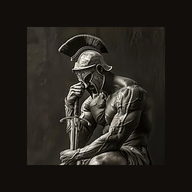
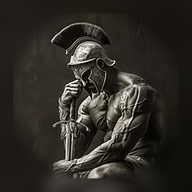
Écran de présentation, icône plein cadre, bâtiments plus hauts avec ombres, sol plus net, éclairage des personnages
Claude-Session: https://claude.ai/code/session_0193LcvTfVg5nRpzyzWPW21n

Changed region(s): [[0.2188, 0.0625, 0.8438, 1.0], [0.0625, 0.25, 0.1562, 0.6875], [0.1875, 0.125, 0.2188, 0.1562]]

diff --git a/index.html b/index.html
@@ -401,7 +401,24 @@ body.desk .fire,body.desk .pist{display:none}
   .hint{top:calc(var(--it) + 218px);bottom:auto;max-width:min(34vw,280px)}
   .warn{top:calc(var(--it) + 160px);right:calc(var(--ir) + 10px);left:auto}
 }
+.splash{position:fixed;inset:0;z-index:999;background:#0b0806;display:flex;align-items:flex-end;justify-content:center;overflow:hidden;cursor:pointer;transition:opacity .6s ease}
+.splash.out{opacity:0;pointer-events:none}
+.splash img{position:absolute;inset:0;width:100%;height:100%;object-fit:cover;object-position:50% 22%;filter:contrast(1.08) saturate(1.05);animation:spz 6s ease-out forwards}
+@keyframes spz{from{transform:scale(1.12)}to{transform:scale(1)}}
+.splash::after{content:'';position:absolute;inset:0;background:linear-gradient(180deg,rgba(11,8,6,.2) 0,rgba(11,8,6,0) 35%,rgba(11,8,6,.55) 62%,rgba(11,8,6,.96) 100%)}
+.splash .sp-in{position:relative;z-index:1;text-align:center;padding:0 20px calc(env(safe-area-inset-bottom,0px) + 44px);color:var(--bone);width:100%;max-width:560px}
+.splash h1{font-family:var(--f-stencil);font-weight:400;font-size:clamp(46px,15vw,92px);line-height:.92;margin:0;letter-spacing:.03em;text-shadow:0 4px 0 rgba(0,0,0,.5)}
+.splash h1 span{color:var(--ember)}
+.splash p{margin:10px 0 0;font-size:clamp(12px,3.4vw,18px);letter-spacing:.08em;white-space:nowrap;text-transform:uppercase;color:#e8dcc4}
+.splash .sp-bar{height:4px;background:rgba(255,255,255,.14);border-radius:2px;margin:22px auto 0;max-width:280px;overflow:hidden}
+.splash .sp-bar i{display:block;height:100%;width:0;background:linear-gradient(90deg,var(--ember),var(--flare));animation:spb 2.4s ease-out forwards}
+@keyframes spb{to{width:100%}}
+.splash small{display:block;margin-top:14px;font-size:13px;letter-spacing:.14em;text-transform:uppercase;color:rgba(243,233,212,.7);opacity:0;animation:spt .4s 2.3s forwards}
+@keyframes spt{to{opacity:1}}
+@media (prefers-reduced-motion:reduce){.splash img{animation:none}}
 </style>
[1 lines of base64/hex data omitted]
+<script>(function(){var sp=document.getElementById('splash');if(!sp)return;var done=false;function hide(){if(done)return;done=true;sp.classList.add('out');setTimeout(function(){sp.remove()},650)}sp.addEventListener('click',hide);if(document.readyState==='complete')setTimeout(hide,2800);else window.addEventListener('load',function(){setTimeout(hide,2800)});setTimeout(hide,12000)})();</script>
 
 </head>
 <body>
@@ -619,7 +636,7 @@ const $=s=>document.querySelector(s);
 const cv=$('#game'),ctx=cv.getContext('2d');
 const mini=$('#mini'),mctx=mini.getContext('2d');
 const bigcv=$('#bigcv'),bctx=bigcv.getContext('2d');
-const TAU=Math.PI*2,WS=3600,GS=.5,CELL=150,COLS=Math.ceil(WS/CELL);
+const TAU=Math.PI*2,WS=3600,CELL=150,COLS=Math.ceil(WS/CELL);
 const rand=(a,b)=>a+Math.random()*(b-a);
 const clamp=(v,a,b)=>v<a?a:v>b?b:v;
 const lerp=(a,b,t)=>a+(b-a)*t;
@@ -895,7 +912,8 @@ const T=14,DW=60;
 function wall(x,y,w,h,st){const c={t:'r',x,y,w,h,k:'wall',st};walls.push(c);solids.push(c);return c}
 function hWall(b,x,y,len,fs,ny){const g=fs.map(f=>x+f*len).sort((a,c)=>a-c);let cur=x;for(const c of g){if(c-DW/2>cur)wall(cur,y,c-DW/2-cur,T,b.st);cur=c+DW/2;b.doors.push({x:c,y:y+T/2,nx:0,ny})}if(x+len>cur)wall(cur,y,x+len-cur,T,b.st)}
 function vWall(b,x,y,len,fs,nx){const g=fs.map(f=>y+f*len).sort((a,c)=>a-c);let cur=y;for(const c of g){if(c-DW/2>cur)wall(x,cur,T,c-DW/2-cur,b.st);cur=c+DW/2;b.doors.push({x:x+T/2,y:c,nx,ny:0})}if(y+len>cur)wall(x,cur,T,y+len-cur,b.st)}
-function bld(x,y,w,h,st,doors,opt){opt=opt||{};const b={x,y,w,h,st,doors:[],props:[],al:1,mil:!!opt.mil,lh:!!opt.lh,label:opt.label||'',tank:SR()<.6,tx:sr(.25,.75),ty:sr(.25,.75)};const by={n:[],s:[],w:[],e:[]};for(const d of doors)by[d[0]].push(d[1]);hWall(b,x,y,w,by.n,-1);hWall(b,x,y+h-T,w,by.s,1);vWall(b,x,y+T,h-2*T,by.w,-1);vWall(b,x+w-T,y+T,h-2*T,by.e,1);if(opt.inner)for(const r of opt.inner)wall(r[0],r[1],r[2],r[3],st);if(st==='med'&&!opt.lh){if(SR()<.6)b.props.push({k:'solar',x:sr(.3,.7),y:sr(.22,.42),r:spick([0,Math.PI])});if(SR()<.4)b.props.push({k:'dish',x:sr(.2,.8),y:sr(.62,.8),r:SR()*TAU});if(SR()<.5)b.props.push({k:'ac',x:sr(.18,.82),y:sr(.58,.84),r:spick([0,Math.PI/2])})}blds.push(b);return b}
+const FHS={tower:46,glass:56,shop:24,house:22,house2:22,house3:22,cabin:18,mil:20,port:26,ksar:28,med:20,farm:20,hut:16};
+function bld(x,y,w,h,st,doors,opt){opt=opt||{};const b={x,y,w,h,st,fh:FHS[st]||17,doors:[],props:[],al:1,mil:!!opt.mil,lh:!!opt.lh,label:opt.label||'',tank:SR()<.6,tx:sr(.25,.75),ty:sr(.25,.75)};const by={n:[],s:[],w:[],e:[]};for(const d of doors)by[d[0]].push(d[1]);hWall(b,x,y,w,by.n,-1);hWall(b,x,y+h-T,w,by.s,1);vWall(b,x,y+T,h-2*T,by.w,-1);vWall(b,x+w-T,y+T,h-2*T,by.e,1);if(opt.inner)for(const r of opt.inner)wall(r[0],r[1],r[2],r[3],st);if(st==='med'&&!opt.lh){if(SR()<.6)b.props.push({k:'solar',x:sr(.3,.7),y:sr(.22,.42),r:spick([0,Math.PI])});if(SR()<.4)b.props.push({k:'dish',x:sr(.2,.8),y:sr(.62,.8),r:SR()*TAU});if(SR()<.5)b.props.push({k:'ac',x:sr(.18,.82),y:sr(.58,.84),r:spick([0,Math.PI/2])})}blds.push(b);return b}
 function rdoors(){const s=['n','s','w','e'];const a=spick(s);const d=[[a,sr(.3,.7)]];if(SR()<.55){const o={n:'s',s:'n',w:'e',e:'w'}[a];d.push([SR()<.5?o:spick(s.filter(x=>x!==a&&x!==o)),sr(.3,.7)])}return d}
 function addSolid(c){solids.push(c);occ.push(c.t==='r'?{x:c.x+c.w/2,y:c.y+c.h/2,r:Math.hypot(c.w,c.h)/2}:{x:c.x,y:c.y,r:c.r});if(c.k==='crate')crates.push(c);return c}
 function free(x,y,r,opt){opt=opt||{};if(x<80||y<80||x>WS-80||y>WS-80)return false;if(isWater(x,y)||x+r+40>coastX(y)||dd2(x,y,LAKE.x,LAKE.y)<(LAKE.r+r+30)**2)return false;for(const b of blds)if(inRect(x,y,b,r+26))return false;if(nearRoad(x,y,r+(MAP.rm||28)))return false;if(!opt.paved)for(const p of PAVED)if(inRect(x,y,p,r))return false;for(const o of occ)if(dd2(x,y,o.x,o.y)<(r+o.r+10)**2)return false;return true}
@@ -1124,7 +1142,8 @@ function decoFloor(c,b,R){const S=STY[b.st],x0=b.x+T,y0=b.y+T,w=b.w-2*T,h=b.h-2*
 function gradeGround(c){const g=c.createLinearGradient(0,0,WS,WS);g.addColorStop(0,'rgba(255,190,120,.07)');g.addColorStop(1,'rgba(120,60,20,.06)');c.fillStyle=g;c.fillRect(0,0,WS,WS)}
 function gradeCanvas(cv){try{const t=document.createElement('canvas');t.width=cv.width;t.height=cv.height;const c=t.getContext('2d');if(!('filter' in c))return;c.filter='saturate(1.3) contrast(1.07) brightness(1.03)';c.drawImage(cv,0,0);const o=cv.getContext('2d');o.save();o.setTransform(1,0,0,1,0,0);o.clearRect(0,0,cv.width,cv.height);o.drawImage(t,0,0);o.restore()}catch(e){}}
 const GRZ0=[[1750,560,560],[2300,2950,480],[700,1600,380],[1200,2400,300],[2600,1900,280],[500,3200,300]];
-function buildGround(){
+let GS=.5;
+function buildGround(){GS=stats.quality==='eco'?.5:.8;
   const g=document.createElement('canvas');g.width=g.height=WS*GS;const c=g.getContext('2d');c.scale(GS,GS);
   const Rg=mulberry32(77);
   c.fillStyle=MAP.base;c.fillRect(0,0,WS,WS);
@@ -1165,6 +1184,10 @@ function buildGround(){
   c.fillStyle=MAP.shore;c.beginPath();c.arc(LAKE.x,LAKE.y,LAKE.r+26,0,TAU);c.fill();
   const lg=c.createRadialGradient(LAKE.x,LAKE.y,10,LAKE.x,LAKE.y,LAKE.r);lg.addColorStop(0,MAP.lake[0]);lg.addColorStop(1,MAP.lake[1]);c.fillStyle=lg;c.beginPath();c.arc(LAKE.x,LAKE.y,LAKE.r,0,TAU);c.fill();
   c.strokeStyle='rgba(255,255,255,.5)';c.lineWidth=4;c.stroke();
+  // sun shadows (light from the top-left)
+  c.save();
+  for(const [g,al] of[[6,.08],[3,.09],[0,.14]])for(const b of blds){const f=b.fh||17,dx=f*1.15+g,dy=f*.85+g,x=b.x-3,y=b.y-3,w=b.w+6,h=b.h+6+f;c.fillStyle='rgba(18,12,6,'+al+')';c.beginPath();c.moveTo(x+w,y);c.lineTo(x+w+dx,y+dy);c.lineTo(x+w+dx,y+h+dy);c.lineTo(x+dx,y+h+dy);c.lineTo(x,y+h);c.closePath();c.fill()}
+  c.restore();
   // floors
   for(const b of blds){const S=STY[b.st];c.fillStyle=S.floor;c.fillRect(b.x,b.y,b.w,b.h);c.strokeStyle='rgba(0,0,0,.1)';c.lineWidth=2;c.beginPath();const st=b.st==='mil'||b.st==='port'?60:28;for(let x=b.x+st;x<b.x+b.w;x+=st){c.moveTo(x,b.y);c.lineTo(x,b.y+b.h)}for(let y=b.y+st;y<b.y+b.h;y+=st){c.moveTo(b.x,y);c.lineTo(b.x+b.w,y)}c.stroke();
     for(const d of b.doors){c.fillStyle='rgba(0,0,0,.12)';if(d.ny)c.fillRect(d.x-DW/2,d.y+(d.ny>0?6:-26),DW,20);else c.fillRect(d.x+(d.nx>0?6:-26),d.y-DW/2,20,DW)}}
@@ -1939,9 +1962,9 @@ function render(){const z=cam.z;const sh=reduceMotion?0:cam.shake*10;const ox=(M
   for(const b of bushes){if(!vis(b.x,b.y))continue;ctx.globalAlpha=dd2(px,py,b.x,b.y)<b.r*b.r?.45:.95;ctx.fillStyle=b.c<.5?'#5a8a2f':'#669838';ctx.beginPath();ctx.arc(b.x,b.y,b.r,0,TAU);ctx.fill();ctx.fillStyle='#86b247';ctx.beginPath();ctx.arc(b.x-b.r*.3,b.y-b.r*.25,b.r*.5,0,TAU);ctx.arc(b.x+b.r*.35,b.y+b.r*.1,b.r*.42,0,TAU);ctx.fill()}
   for(const t of trees){if(!vis(t.x,t.y,t.r))continue;const under=dd2(px,py,t.x,t.y)<t.r*t.r;ctx.globalAlpha=under?.4:.96;drawTree(t)}ctx.globalAlpha=1;
   // roofs
-  for(const b of blds)if(b.al>.01&&vis(b.x+b.w/2,b.y+b.h/2+FH,Math.max(b.w,b.h)))drawFace(b);
+  for(const b of blds)if(b.al>.01&&vis(b.x+b.w/2,b.y+b.h/2+(b.fh||FH),Math.max(b.w,b.h)))drawFace(b);
   for(const b of blds)if(b.al>.01&&vis(b.x+b.w/2,b.y+b.h/2,Math.max(b.w,b.h)))drawRoof(b);
-  for(const e of ents){if(!e.alive||e.inPlane||e.air>0||e.veh||!vis(e.x,e.y))continue;for(const b of blds){if(b.al<.5)continue;if(e.x>b.x-24&&e.x<b.x+b.w+24&&e.y>b.y+b.h&&e.y<b.y+b.h+FH+e.r+8){drawEnt(e);break}}}
+  for(const e of ents){if(!e.alive||e.inPlane||e.air>0||e.veh||!vis(e.x,e.y))continue;for(const b of blds){if(b.al<.5)continue;if(e.x>b.x-24&&e.x<b.x+b.w+24&&e.y>b.y+b.h&&e.y<b.y+b.h+(b.fh||FH)+e.r+8){drawEnt(e);break}}}
   if(game.mode!=='lobby'||Q.hi)drawClouds(x0,y0,x1,y1);
   // airborne
   for(const e of ents)if(e.alive&&!e.inPlane&&e.air>0&&vis(e.x,e.y,120))drawChute(e);
@@ -2032,12 +2055,13 @@ function drawRoofProps(b){for(const p of b.props){ctx.save();ctx.translate(b.x+b
     else{ctx.fillStyle='#c2c5c6';ctx.fillRect(-9,-7,18,14);ctx.fillStyle='#7d8284';ctx.beginPath();ctx.arc(-2,0,5,0,TAU);ctx.fill();ctx.strokeStyle='#5c6163';ctx.lineWidth=1;ctx.strokeRect(-9,-7,18,14)}
     ctx.restore()}}
 const FH=17;
-function drawFace(b){const S=STY[b.st];ctx.globalAlpha=b.al;const y=b.y+b.h+3,x=b.x-3,w=b.w+6;
+function drawFace(b){const S=STY[b.st];ctx.globalAlpha=b.al;const y=b.y+b.h+3,x=b.x-3,w=b.w+6,FH=b.fh||17;
   const g=ctx.createLinearGradient(0,y,0,y+FH);g.addColorStop(0,shade(S.wall,.72));g.addColorStop(1,shade(S.wall,.5));ctx.fillStyle=g;ctx.fillRect(x,y,w,FH);
   ctx.fillStyle='rgba(0,0,0,.25)';ctx.fillRect(x,y,w,2);ctx.fillStyle='rgba(0,0,0,.18)';ctx.fillRect(x,y+FH,w,4);
   const win=b.st==='med'||b.st==='ksar'||b.st==='hut'?'#2c6db3':b.st==='farm'||b.st==='cabin'?'#3a2418':b.st==='tower'||b.st==='glass'?'#7fa3c4':b.st==='shop'?'#3c5a74':b.st.startsWith('house')?'#3b5878':'#2b3238';
   for(let wx=x+20;wx<x+w-24;wx+=46){let door=false;for(const d of b.doors)if(d.ny>0&&Math.abs(d.x-(wx+6))<DW/2+8)door=true;if(door)continue;ctx.fillStyle='rgba(0,0,0,.35)';ctx.fillRect(wx-1,y+4,14,9);ctx.fillStyle=win;ctx.fillRect(wx,y+5,12,7);ctx.fillStyle='rgba(255,255,255,.25)';ctx.fillRect(wx,y+5,12,1.5)}
-  for(const d of b.doors)if(d.ny>0){ctx.fillStyle='rgba(15,10,6,.75)';ctx.fillRect(d.x-DW/2+4,y,DW-8,FH)}
+  if(FH>=40){for(let wy=y+20;wy<y+FH-10;wy+=14)for(let wx=x+20;wx<x+w-24;wx+=46){ctx.fillStyle='rgba(0,0,0,.35)';ctx.fillRect(wx-1,wy-1,14,9);ctx.fillStyle=b.st==='glass'?'#9cc2dc':'#7fa3c4';ctx.fillRect(wx,wy,12,7);ctx.fillStyle='rgba(255,255,255,.3)';ctx.fillRect(wx,wy,12,1.5)}}
+  for(const d of b.doors)if(d.ny>0){ctx.fillStyle='rgba(15,10,6,.75)';ctx.fillRect(d.x-DW/2+4,y+FH-Math.min(FH,22),DW-8,Math.min(FH,22))}
   ctx.globalAlpha=1}
 function drawRoof(b){const S=STY[b.st];ctx.globalAlpha=b.al;ctx.fillStyle='rgba(0,0,0,.18)';ctx.fillRect(b.x+7,b.y+9,b.w,b.h);ctx.fillStyle=S.roof;ctx.fillRect(b.x-3,b.y-3,b.w+6,b.h+6);ctx.fillStyle='rgba(255,250,235,.16)';ctx.fillRect(b.x-3,b.y-3,b.w+6,4);ctx.fillRect(b.x-3,b.y-3,4,b.h+6);ctx.fillStyle='rgba(40,25,10,.16)';ctx.fillRect(b.x-3,b.y+b.h-1,b.w+6,4);ctx.fillRect(b.x+b.w-1,b.y-3,4,b.h+6);
   if(b.lh){ctx.strokeStyle=S.roof2;ctx.lineWidth=6;ctx.strokeRect(b.x+4,b.y+4,b.w-8,b.h-8);const cx=b.x+b.w/2,cy=b.y+b.h/2;ctx.fillStyle='#f4efe4';ctx.beginPath();ctx.arc(cx,cy,40,0,TAU);ctx.fill();ctx.strokeStyle='#c8432c';ctx.lineWidth=8;ctx.beginPath();ctx.arc(cx,cy,30,0,TAU);ctx.stroke();ctx.fillStyle='#ffc061';ctx.beginPath();ctx.arc(cx,cy,12,0,TAU);ctx.fill();ctx.save();ctx.translate(cx,cy);ctx.rotate(TIME*.9);ctx.fillStyle='rgba(255,220,140,.22)';ctx.beginPath();ctx.moveTo(0,0);ctx.arc(0,0,140,-.18,.18);ctx.closePath();ctx.fill();ctx.restore()}
@@ -2213,6 +2237,7 @@ function drawBody(c,e){const sk=e.sk||SOLDIERS[1],w=curW(e),Wp=w?WEAP[w.type]:nu
   if(sw)c.rotate(sw*.07);
   if(sk.cape)drawCape(c,sk,ws,e.walkPh||0);
   c.drawImage(SPR[sk.id],-28,-28,56,56);
+  if(Q.hi){const la=-2.36-(e.angle||0);c.lineCap='round';c.strokeStyle='rgba(255,236,200,.42)';c.lineWidth=1.8;c.beginPath();c.ellipse(0,0,10.6,15.6,0,la-.75,la+.75);c.stroke();c.strokeStyle='rgba(10,6,2,.28)';c.lineWidth=2.4;c.beginPath();c.ellipse(0,0,10.6,15.6,0,la+Math.PI-.8,la+Math.PI+.8);c.stroke()}
   if(e.cust&&e.cust.bag&&!sk.ftr&&!sk.jc&&BAGC[e.cust.bag]){c.save();c.globalAlpha*=.62;c.fillStyle=BAGC[e.cust.bag];rrect(c,-17.5,-9,8,18,3);c.fill();c.restore()}
   if(e.vestLvl&&e.vest>0)c.drawImage(VSPR[e.vestLvl],-28,-28,56,56);
   if(e.shield>0&&Wp)drawShieldDisc(c,-13,0,10.5);

diff --git a/sw.js b/sw.js
@@ -1,5 +1,5 @@
 /* Seddik Fire — service worker : le jeu se lance hors ligne après la première ouverture. */
-const VERSION = 'seddik-fire-v34';
+const VERSION = 'seddik-fire-v35';
 const FONTS = 'seddik-fire-fonts';
 const CORE = [
   './',
